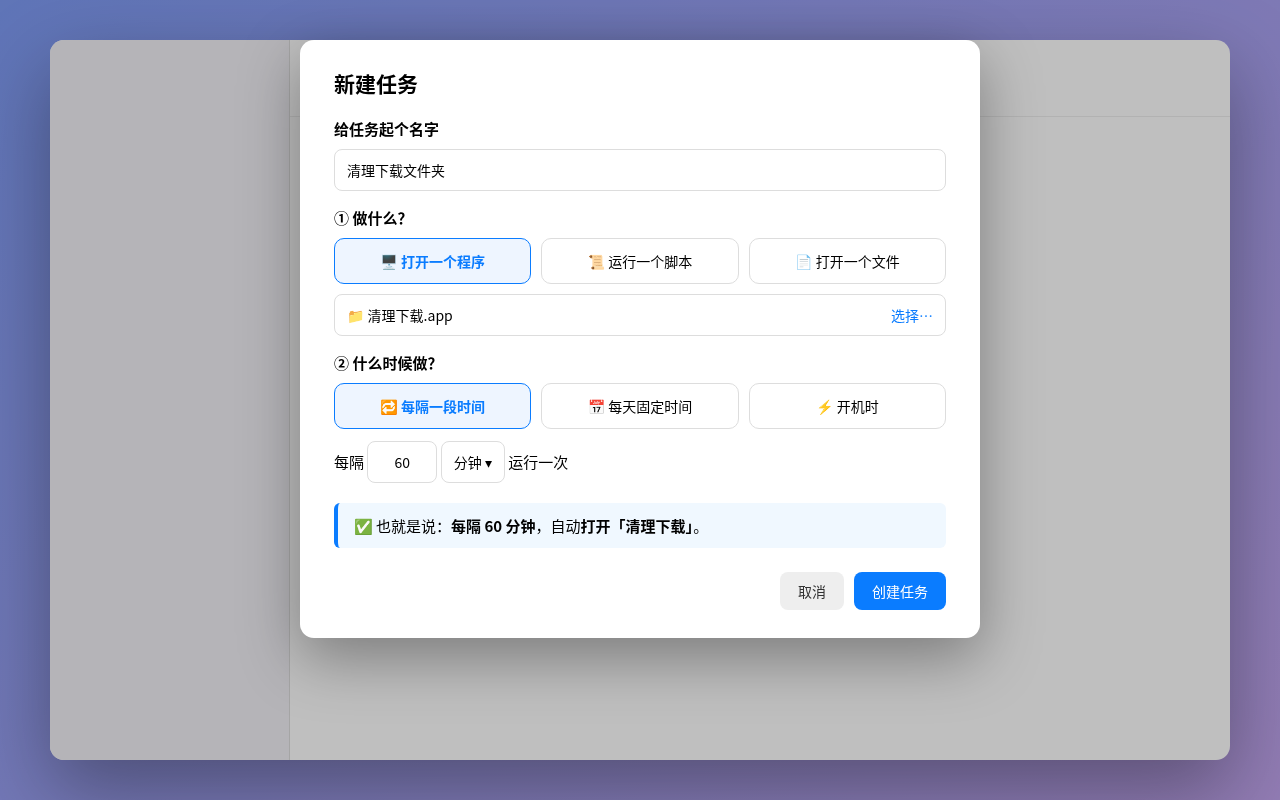
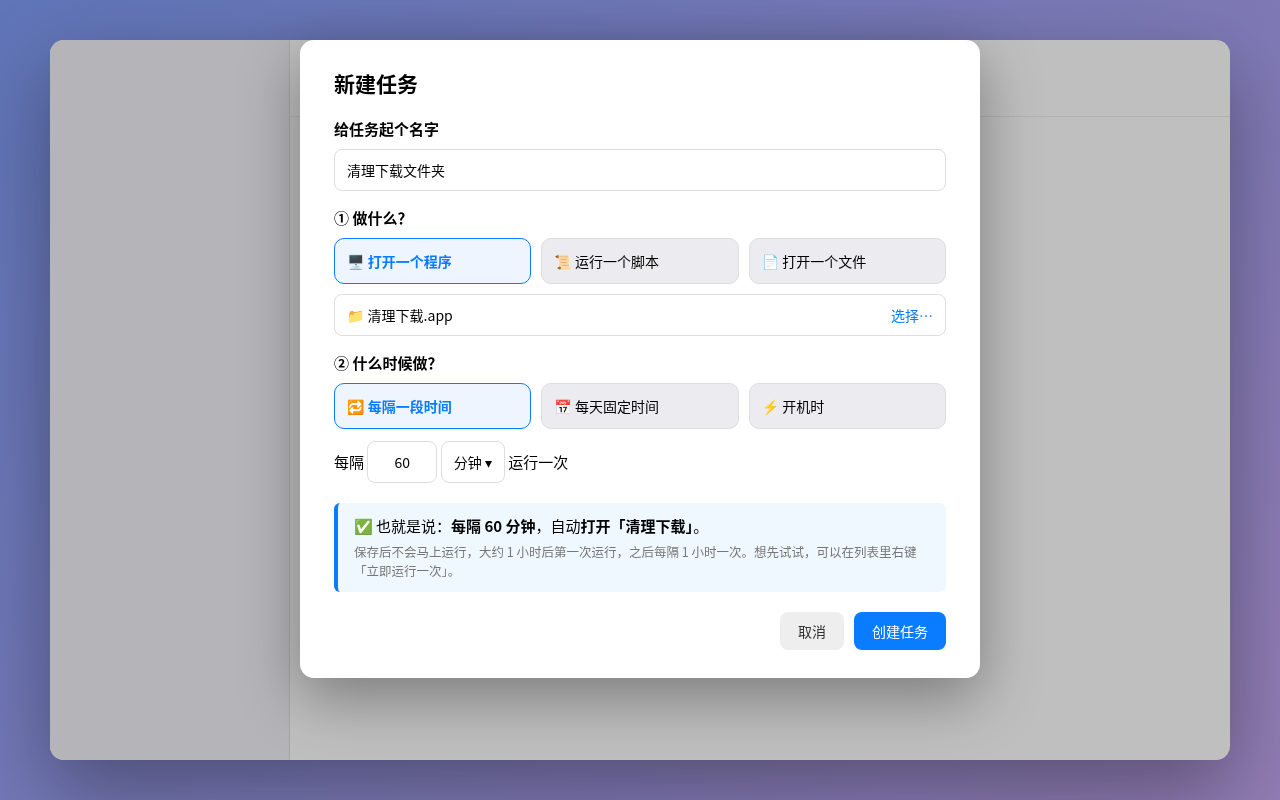
0.5.0：更新说明、README 与我的任务 / 新建任务 / 开机自启动截图

diff --git a/README.md b/README.md
@@ -12,15 +12,15 @@
 
 > 下面是设计稿，实际界面用的是 macOS 原生控件，细节会略有不同。
 
-**我的任务**：你自己建的定时任务，开关一拨就暂停。每个任务下面会显示上次运行的结果；出了问题会直接告诉你原因，并给一个修的按钮。
+**我的任务**：你自己建的定时任务，开关一拨就暂停。每天定时的任务会写出下次什么时候跑；每个任务下面会显示上次运行的结果，出了问题会直接告诉你原因，并给一个修的按钮。
 
 ![我的任务](docs/images/mockup-my-tasks.png)
 
-**新建任务**：只问两个问题，做什么，什么时候做。底下会用一句大白话告诉你它到底会干嘛。
+**新建任务**：只问两个问题，做什么，什么时候做。底下会用一句大白话告诉你它到底会干嘛，以及保存后第一次什么时候运行。
 
 ![新建任务](docs/images/mockup-new-task.png)
 
-**开机自启动**：各种软件偷偷装的后台程序，看不顺眼的可以关掉。软件卸载后留下的残留项会用橙色标出来，还能按「全部 / 已开启 / 已停用 / 残留」筛选。
+**开机自启动**：各种软件偷偷装的后台程序，看不顺眼的可以关掉。软件卸载后留下的残留项会用橙色标出来，还能按「全部 / 已开启 / 已停用 / 残留」筛选。最近 7 天新冒出来的自启动项会用蓝色小字标出来，侧边栏也会亮一个蓝色小圆点。
 
 ![开机自启动](docs/images/mockup-startup.png)
 
@@ -35,17 +35,21 @@
   - 三种做法：打开一个程序、运行一个脚本、打开一个文件或文件夹
   - 三种时间：每隔 N 分钟（或小时）、每天几点几分、开机登录时
   - 暂停和恢复，暂停后重启电脑也不会偷偷跑起来
+  - 「每天几点」的任务直接在列表里显示「下次：今天 21:00」，不用自己算
+  - 新建或修改时会提前告诉你保存后第一次什么时候运行；保存按钮变灰时，旁边会写出还差哪一步
   - 右键「立即运行一次」，方便试一下效果
-  - 查看运行记录，任务打印的内容和报错都会存在 `~/Library/Logs/Launchy/` 里
-  - 每个任务都显示上次运行结果：成功还是失败、启用以来跑了几次。失败时用大白话说原因（比如「脚本没有执行权限」），旁边有「查看运行记录」按钮
+  - 也可以用键盘：选中任务后回车修改、空格暂停或恢复、删除键删除（会先确认）
+  - 查看运行记录，任务打印的内容和报错都会存在 `~/Library/Logs/Launchy/` 里。出错的那一行会标橙并自动滚过去，也可以「拷贝全部」发给别人帮忙看
+  - 每个任务都显示上次运行结果：成功还是失败、启用以来跑了几次。失败时用大白话说原因（比如「脚本没有执行权限」「找不到 brew 命令」），旁边有「查看运行记录」按钮
   - 要打开的程序、脚本或文件被移走或删掉了，会显示橙色「找不到文件」，点「重新选择…」换一个就行
 - **开机自启动**
   - 列出「仅当前用户」「所有用户」「系统级」三类第三方后台服务
   - 一个开关控制启用或关闭。系统级的服务会弹出系统密码框，Launchy 自己不碰你的密码
   - 每一项都显示所属软件的真实图标；找不到软件的，按用途（更新、同步、清理、网络、安全……）配一个彩色小图标
-  - 点一下就能看详情：它属于哪个软件、大概是干嘛的（常见的我写了中文说明，其他的靠关键词猜个八九不离十）、什么时候运行、进程号、上次退出码
+  - 点一下就能看详情：它属于哪个软件、是谁做的（读程序签名，告诉你是苹果、App Store、苹果认证的开发者，还是没签名）、大概是干嘛的（常见的我写了中文说明，其他的靠关键词猜个八九不离十）、什么时候运行、进程号、上次退出码
   - 详情页里可以「立即运行」「停止」「在访达中显示」
   - 顶部可以按「全部 / 已开启 / 已停用 / 残留」筛选，每一项后面带数量
+  - 标出「最近新增」：最近 7 天新冒出来的自启动项会用蓝色小字提醒是什么时候发现的，点「知道了」就不再提醒（不会关掉它）；有好几个时可以在「最近新增」筛选里「全部知道了」。第一次使用时，已有的都算早就有的
   - 有软件新装或卸载了自启动项，列表会自动刷新，不用手动点「刷新」
   - 自动标出「残留项」：软件已经删了、后台配置还留着的，会显示橙色「⚠ 程序已删除」，页面顶部也会提醒，详情页会用大白话告诉你怎么处理。只检查第三方服务，不会自动删任何东西
   - 可以编辑：程序、参数、开机运行、定时，也可以直接改原始 plist。保存前会先用 `plutil` 检查格式，再自动备份到 `~/Library/Application Support/Launchy/backups`，改坏了能一键从备份恢复。`/Library` 下的文件保存时会弹一次密码框。保存和恢复都在后台进行，界面不会卡住
@@ -58,8 +62,8 @@
   - 每次修改都有记录，可以一键「恢复默认」
 
 - **其他**
-  - 侧边栏会提醒你哪里需要处理：「我的任务」里有任务出错、「开机自启动」里有还开着的残留项时，名字旁边会出现橙色感叹号，鼠标停上去能看到原因
-  - 支持 VoiceOver 读屏：每一行读成「名字，状态」，开关和右键里的操作都能在 VoiceOver 的操作菜单里找到
+  - 侧边栏会提醒你哪里需要处理：「我的任务」里有任务出错、「开机自启动」里有还开着的残留项时，名字旁边会出现橙色感叹号，鼠标停上去能看到原因；有最近新增的自启动项时，「开机自启动」旁边会出现蓝色小圆点
+  - 支持 VoiceOver 读屏：每一行读成「名字，状态」，开关和右键里的操作都能在 VoiceOver 的操作菜单里找到；新建 / 修改任务窗口也会读出选了什么、保存按钮为什么不能点
 
 所有任务都存成 `~/Library/LaunchAgents/com.launchy.*.plist`，是标准的 launchd 格式。哪天你不想用 Launchy 了，这些任务照样能跑，也可以直接删掉。
 
@@ -135,6 +139,12 @@ scripts/build-app.sh 0.1.0 --dmg   # 产物在 dist/ 里
 
 **改完显示「重启后生效」，关掉 Launchy 会丢吗？**
 不会。这个标记会一直保留，直到你真的重启了电脑才自动消失。
+
+**新建的任务怎么没马上跑？**
+「每隔一段时间」的任务保存后不会马上运行，要等过了第一个间隔；「开机时」的任务保存后会马上跑一次。新建窗口底下会写清楚第一次什么时候跑。想马上试试，右键「立即运行一次」。
+
+**「开机自启动」里蓝色的「新出现的自启动项」是什么？**
+最近 7 天新冒出来的自启动项，多半是你刚装的软件加的。认识的话点「知道了」就行；不认识的点开看看「谁做的」，不想要就关掉。
 
 **电脑睡着的时候，到点的任务还会跑吗？**
 「每天几点」的任务会在电脑醒来后补跑一次；「每隔 N 分钟」的任务睡着的时候不跑，醒了接着按间隔跑。这是 launchd 本身的规则，我也没办法。

diff --git a/docs/release-notes/0.5.0.md b/docs/release-notes/0.5.0.md
@@ -1,0 +1,10 @@
+- 任务什么时候跑一目了然：「每天固定时间」的任务在「我的任务」里会显示「下次：今天 21:00」「下次：明天 09:00」，每分钟自动更新
+- 新建或修改任务时，会预先告诉你保存后第一次什么时候运行：每隔一段时间的任务不会马上跑、开机时的任务会马上跑一次、睡眠错过的每日任务醒来会补上
+- 保存按钮变灰时，旁边会直接用小字写出「还差一步」（比如还没选文件、间隔要大于 0），不用对着灰按钮猜
+- 「开机自启动」会标出最近 7 天新冒出来的自启动项：蓝色小字提醒是什么时候发现的，附「知道了」按钮；多了一个「最近新增」筛选，有好几个时可以「全部知道了」一次确认（只是不再提醒，不会关掉它们）
+- 侧边栏「开机自启动」旁边出现蓝色小圆点，说明有最近新增的自启动项，点进去直接看到它们
+- 自启动项详情页新增「谁做的」：读取程序签名，用大白话说出是苹果、App Store、苹果认证的开发者（显示公司名），还是未签名 / 签名无效
+- 任务失败时报错更好懂：能认出「命令找不到 / 没权限 / 文件不存在 / 隐私保护拦截」等常见问题，说出是哪条命令、哪个文件；运行记录窗口把出错的那一行标橙并自动滚过去，还能「拷贝全部」
+- 「我的任务」支持键盘：选中后回车修改、空格暂停或恢复、删除键删除（会先确认）；右键菜单也能暂停 / 恢复
+- 「我的任务」在任务文件变化、切回 Launchy 时自动刷新，不再显示过时的运行结果
+- 新建 / 修改任务窗口支持 VoiceOver：会读出哪个选项已选择、每个输入框的名字，以及保存按钮为什么不能点
